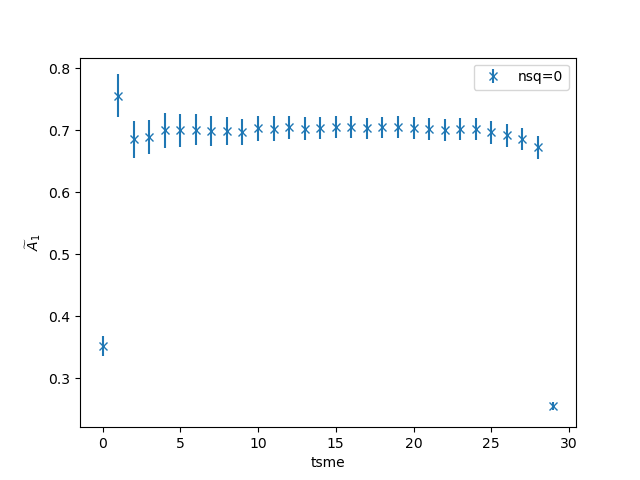
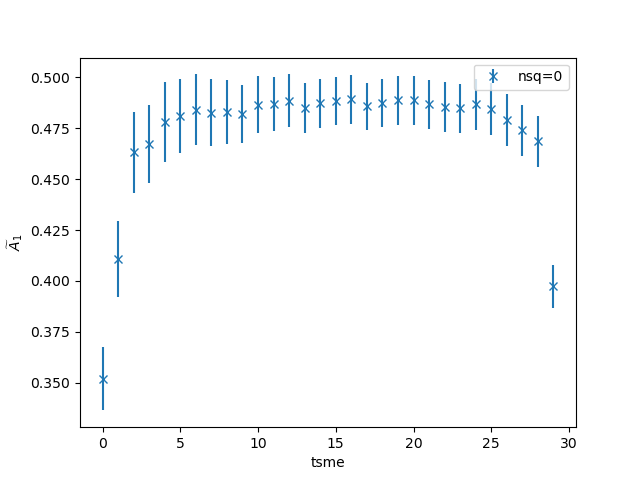
A1 rerun

diff --git a/A1-Av-improved.py b/A1-Av-improved.py
@@ -101,25 +101,25 @@ ts=96
 
 # Initialize arrays
 
-av1n0=np.zeros((nmom, dt,nconf))
+av1n0=np.zeros((nmom, dt+1,nconf))
 for i in range(nmom):
-    av1n0[i]=np.zeros((dt, nconf))
+    av1n0[i]=np.zeros((dt+1, nconf))
 
-avdx = np.zeros((dt, nconf))
-avdy = np.zeros((dt, nconf))
-avdz = np.zeros((dt, nconf))
-avb = np.zeros((dt, nconf))
-avn0 = np.zeros(dt)
+avdx = np.zeros((dt+1, nconf))
+avdy = np.zeros((dt+1, nconf))
+avdz = np.zeros((dt+1, nconf))
+avb = np.zeros((dt+1, nconf))
+avn0 = np.zeros(dt+1)
 
-findx = np.zeros(dt)
-findy = np.zeros(dt)
-findz = np.zeros(dt)
-finb = np.zeros(dt)
-fin3pt=np.zeros((dt,nmom))
+findx = np.zeros(dt+1)
+findy = np.zeros(dt+1)
+findz = np.zeros(dt+1)
+finb = np.zeros(dt+1)
+fin3pt=np.zeros((dt+1,nmom))
 
 
 # Loop optsmizatsons
-for j in range(dt):
+for j in range(dt+1):
     temp=np.zeros(nmom)
     
     tempdx = 0
@@ -131,10 +131,10 @@ for j in range(dt):
         
         tmp=[np.mean((np.real(dsets[i][k, :, j]) + np.real(dsetsb[i][k, :, dt-j]))) / 2 for i in range(nmom)]
             
-        tmpdx = np.mean(np.real(dsxn0[k, :, j+1]) + np.real(dsxn0[k, :, ts-1-j])) / 2 if j != 0 else np.mean(np.real(dsxn0[k, :, 0]))
-        tmpdy = np.mean(np.real(dsyn0[k, :, j+1]) + np.real(dsyn0[k, :, ts-1-j])) / 2 if j != 0 else np.mean(np.real(dsyn0[k, :, 0]))
-        tmpdz = np.mean(np.real(dszn0[k, :, j+1]) + np.real(dszn0[k, :, ts-1-j])) / 2 if j != 0 else np.mean(np.real(dszn0[k, :, 0]))
-        tmpb = np.mean(np.real(bsn0[k, :, j+1]) + np.real(bsn0[k, :, ts-1-j])) / 2 if j != 0 else np.mean(np.real(bsn0[k, :, 0]))
+        tmpdx = np.mean(np.real(dsxn0[k, :, j]) + np.real(dsxn0[k, :, ts-j])) / 2 if j != 0 else np.mean(np.real(dsxn0[k, :, 0]))
+        tmpdy = np.mean(np.real(dsyn0[k, :, j]) + np.real(dsyn0[k, :, ts-j])) / 2 if j != 0 else np.mean(np.real(dsyn0[k, :, 0]))
+        tmpdz = np.mean(np.real(dszn0[k, :, j]) + np.real(dszn0[k, :, ts-j])) / 2 if j != 0 else np.mean(np.real(dszn0[k, :, 0]))
+        tmpb = np.mean(np.real(bsn0[k, :, j]) + np.real(bsn0[k, :, ts-j])) / 2 if j != 0 else np.mean(np.real(bsn0[k, :, 0]))
 
         for l in range(nmom):
             av1n0[l][j,k]=tmp[l]
@@ -157,17 +157,17 @@ for j in range(dt):
     fin3pt[j]=temp
     
 
-for j in range(dt):
-    avn0[j] = pre * (((sum_with_exceptions(fin3pt[j,:]))) / ( np.sqrt(1/3*(findx[j] + findy[j] + findz[j]) * finb[dt-1-j]))) * np.sqrt((4 * mb * md) / (np.exp(-md * j) * np.exp(-mb * (dt - j))))
+for j in range(dt+1):
+    avn0[j] = pre * (((sum_with_exceptions(fin3pt[j,:]))) / ( np.sqrt(1/3*(findx[j] + findy[j] + findz[j]) * finb[dt-j]))) * np.sqrt((4 * mb * md) / (np.exp(-md * j) * np.exp(-mb * (dt - j))))
     #avn0[j] = pre * (((temp[0]+temp[1]+temp[2]+temp[3]+temp[4]+temp[5]) / nmom) / (1/3 * np.sqrt((tempdx + tempdy + tempdz) * tempb))) * np.sqrt((4 * mb * md) / (np.exp(-md * j) * np.exp(-mb * (dt - j))))
 
-errn0=np.zeros(shape=(dt))
+errn0=np.zeros(shape=(dt+1))
 #errnn0=np.zeros(shape=(96))
 
-for j in range(dt):
+for j in range(dt+1):
     x=0
     for i in range(nconf):
-        x=x+((sum_with_exceptions_jack(av1n0, j, i)/(np.sqrt(1/3*(jack(avdx[j],i)+jack(avdy[j],i)+jack(avdz[j],i))*jack(avb[dt-1-j],i))))*np.sqrt((4*dsfit['EffectiveMass'][i]*bsfit['EffectiveMass'][i])/(np.exp(-dsfit['EffectiveMass'][i]*j)*np.exp(-bsfit['EffectiveMass'][i]*(dt-j))))*pre-avn0[j])**2
+        x=x+((sum_with_exceptions_jack(av1n0, j, i)/(np.sqrt(1/3*(jack(avdx[j],i)+jack(avdy[j],i)+jack(avdz[j],i))*jack(avb[dt-j],i))))*np.sqrt((4*dsfit['EffectiveMass'][i]*bsfit['EffectiveMass'][i])/(np.exp(-dsfit['EffectiveMass'][i]*j)*np.exp(-bsfit['EffectiveMass'][i]*(dt-j))))*pre-avn0[j])**2
     errn0[j]=np.sqrt((nconf-1)/nconf*x) 
     #errnn0[j]=np.sqrt((98-1)/98*x)*10**(85)
 
@@ -199,7 +199,7 @@ for t1 in range(int(ts/2-1-reg_low-cut)):
         for i in range(nconf):  
             #+jack(av1n0xm[t1+reg_low],i)-jack(av1n0ym[t1+reg_low],i)+jack(av1n0zm[t1+reg_low],i)
             #+jack(av1n0xm[t2+reg_low],i)-jack(av1n0ym[t2+reg_low],i)+jack(av1n0zm[t2+reg_low],i)
-            x=x+(((sum_with_exceptions_jack(av1n0, t1+reg_low, i))/(np.sqrt(1/3*(jack(avdx[t1+reg_low],i)+jack(avdy[t1+reg_low],i)+jack(avdz[t1+reg_low],i))*jack(avb[dt-1-(t1+reg_low)],i))))*np.sqrt((4*dsfit['EffectiveMass'][i]*bsfit['EffectiveMass'][i])/(np.exp(-dsfit['EffectiveMass'][i]*(t1+reg_low))*np.exp(-bsfit['EffectiveMass'][i]*(dt-(t1+reg_low)))))*pre-avn0[t1])*(((sum_with_exceptions_jack(av1n0, t2+reg_low, i))/(np.sqrt(1/3*(jack(avdx[t2+reg_low],i)+jack(avdy[t2+reg_low],i)+jack(avdz[t2+reg_low],i))*jack(avb[dt-1-(t2+reg_low)],i))))*np.sqrt((4*dsfit['EffectiveMass'][i]*bsfit['EffectiveMass'][i])/(np.exp(-dsfit['EffectiveMass'][i]*(t2+reg_low))*np.exp(-bsfit['EffectiveMass'][i]*(dt-(t2+reg_low)))))*pre-avn0[t2])            
+            x=x+(((sum_with_exceptions_jack(av1n0, t1+reg_low, i))/(np.sqrt(1/3*(jack(avdx[t1+reg_low],i)+jack(avdy[t1+reg_low],i)+jack(avdz[t1+reg_low],i))*jack(avb[dt-(t1+reg_low)],i))))*np.sqrt((4*dsfit['EffectiveMass'][i]*bsfit['EffectiveMass'][i])/(np.exp(-dsfit['EffectiveMass'][i]*(t1+reg_low))*np.exp(-bsfit['EffectiveMass'][i]*(dt-(t1+reg_low)))))*pre-avn0[t1])*(((sum_with_exceptions_jack(av1n0, t2+reg_low, i))/(np.sqrt(1/3*(jack(avdx[t2+reg_low],i)+jack(avdy[t2+reg_low],i)+jack(avdz[t2+reg_low],i))*jack(avb[dt-(t2+reg_low)],i))))*np.sqrt((4*dsfit['EffectiveMass'][i]*bsfit['EffectiveMass'][i])/(np.exp(-dsfit['EffectiveMass'][i]*(t2+reg_low))*np.exp(-bsfit['EffectiveMass'][i]*(dt-(t2+reg_low)))))*pre-avn0[t2])            
             '''
             if nmom==3:
                 x=x+((((jack(av1n0x[t1+reg_low],i)-jack(av1n0y[t1+reg_low],i)+jack(av1n0z[t1+reg_low],i))/3)/(1/3*np.sqrt((jack(avdx[t1+reg_low],i)+jack(avdy[t1+reg_low],i)+jack(avdz[t1+reg_low],i))*jack(avb[t1+reg_low],i))))*np.sqrt((4*md*mb)/(np.exp(-md*(t1+reg_low))*np.exp(-mb*(30-(t1+reg_low)))))*pre-avn0[t1])*((((jack(av1n0x[t2+reg_low],i)-jack(av1n0y[t2+reg_low],i)+jack(av1n0z[t2+reg_low],i))/3)/(1/3*np.sqrt((jack(avdx[t2+reg_low],i)+jack(avdy[t2+reg_low],i)+jack(avdz[t2+reg_low],i))*jack(avb[t2+reg_low],i))))*np.sqrt((4*md*mb)/(np.exp(-md*(t2+reg_low))*np.exp(-mb*(30-(t2+reg_low)))))*pre-avn0[t2])            
@@ -221,7 +221,7 @@ mbar=minimize(chi,0.1,method='Nelder-Mead', tol=1e-6)
 def jackmass(t1,i):
     #+jack(av1n0xm[t1],i)-jack(av1n0ym[t1],i)+jack(av1n0zm[t1],i)
     #return (((jack(av1n0x[t1],i)-jack(av1n0y[t1],i)+jack(av1n0z[t1],i)+jack(av1n0xm[t1],i)-jack(av1n0ym[t1],i)+jack(av1n0zm[t1],i)+jack(av1n0xn[t1],i)-jack(av1n0yn[t1],i)+jack(av1n0zn[t1],i)+jack(av1n0xmn[t1],i)-jack(av1n0ymn[t1],i)+jack(av1n0zmn[t1],i))/nmom)/(1/3*np.sqrt((jack(avdx[t1],i)+jack(avdy[t1],i)+jack(avdz[t1],i))*jack(avb[t1],i))))*np.sqrt((4*md*mb)/(np.exp(-md*(t1))*np.exp(-mb*(30-(t1)))))*pre
-    return (((sum_with_exceptions_jack(av1n0, t1, i)))/(np.sqrt(1/3*(jack(avdx[t1],i)+jack(avdy[t1],i)+jack(avdz[t1],i))*jack(avb[dt-1-t1],i))))*np.sqrt((4*md*mb)/(np.exp(-md*(t1))*np.exp(-mb*(dt-(t1)))))*pre
+    return (((sum_with_exceptions_jack(av1n0, t1, i)))/(np.sqrt(1/3*(jack(avdx[t1],i)+jack(avdy[t1],i)+jack(avdz[t1],i))*jack(avb[dt-t1],i))))*np.sqrt((4*md*mb)/(np.exp(-md*(t1))*np.exp(-mb*(dt-(t1)))))*pre
 
 def chijack(a,k):
     return np.dot(np.transpose([jackmass(i+reg_low,k)-a for i in range(int(ts/2-1-reg_low-cut))]),np.matmul(np.linalg.inv(covmat),[jackmass(i+reg_low,k)-a for i in range(int(ts/2-1-reg_low-cut))]))
